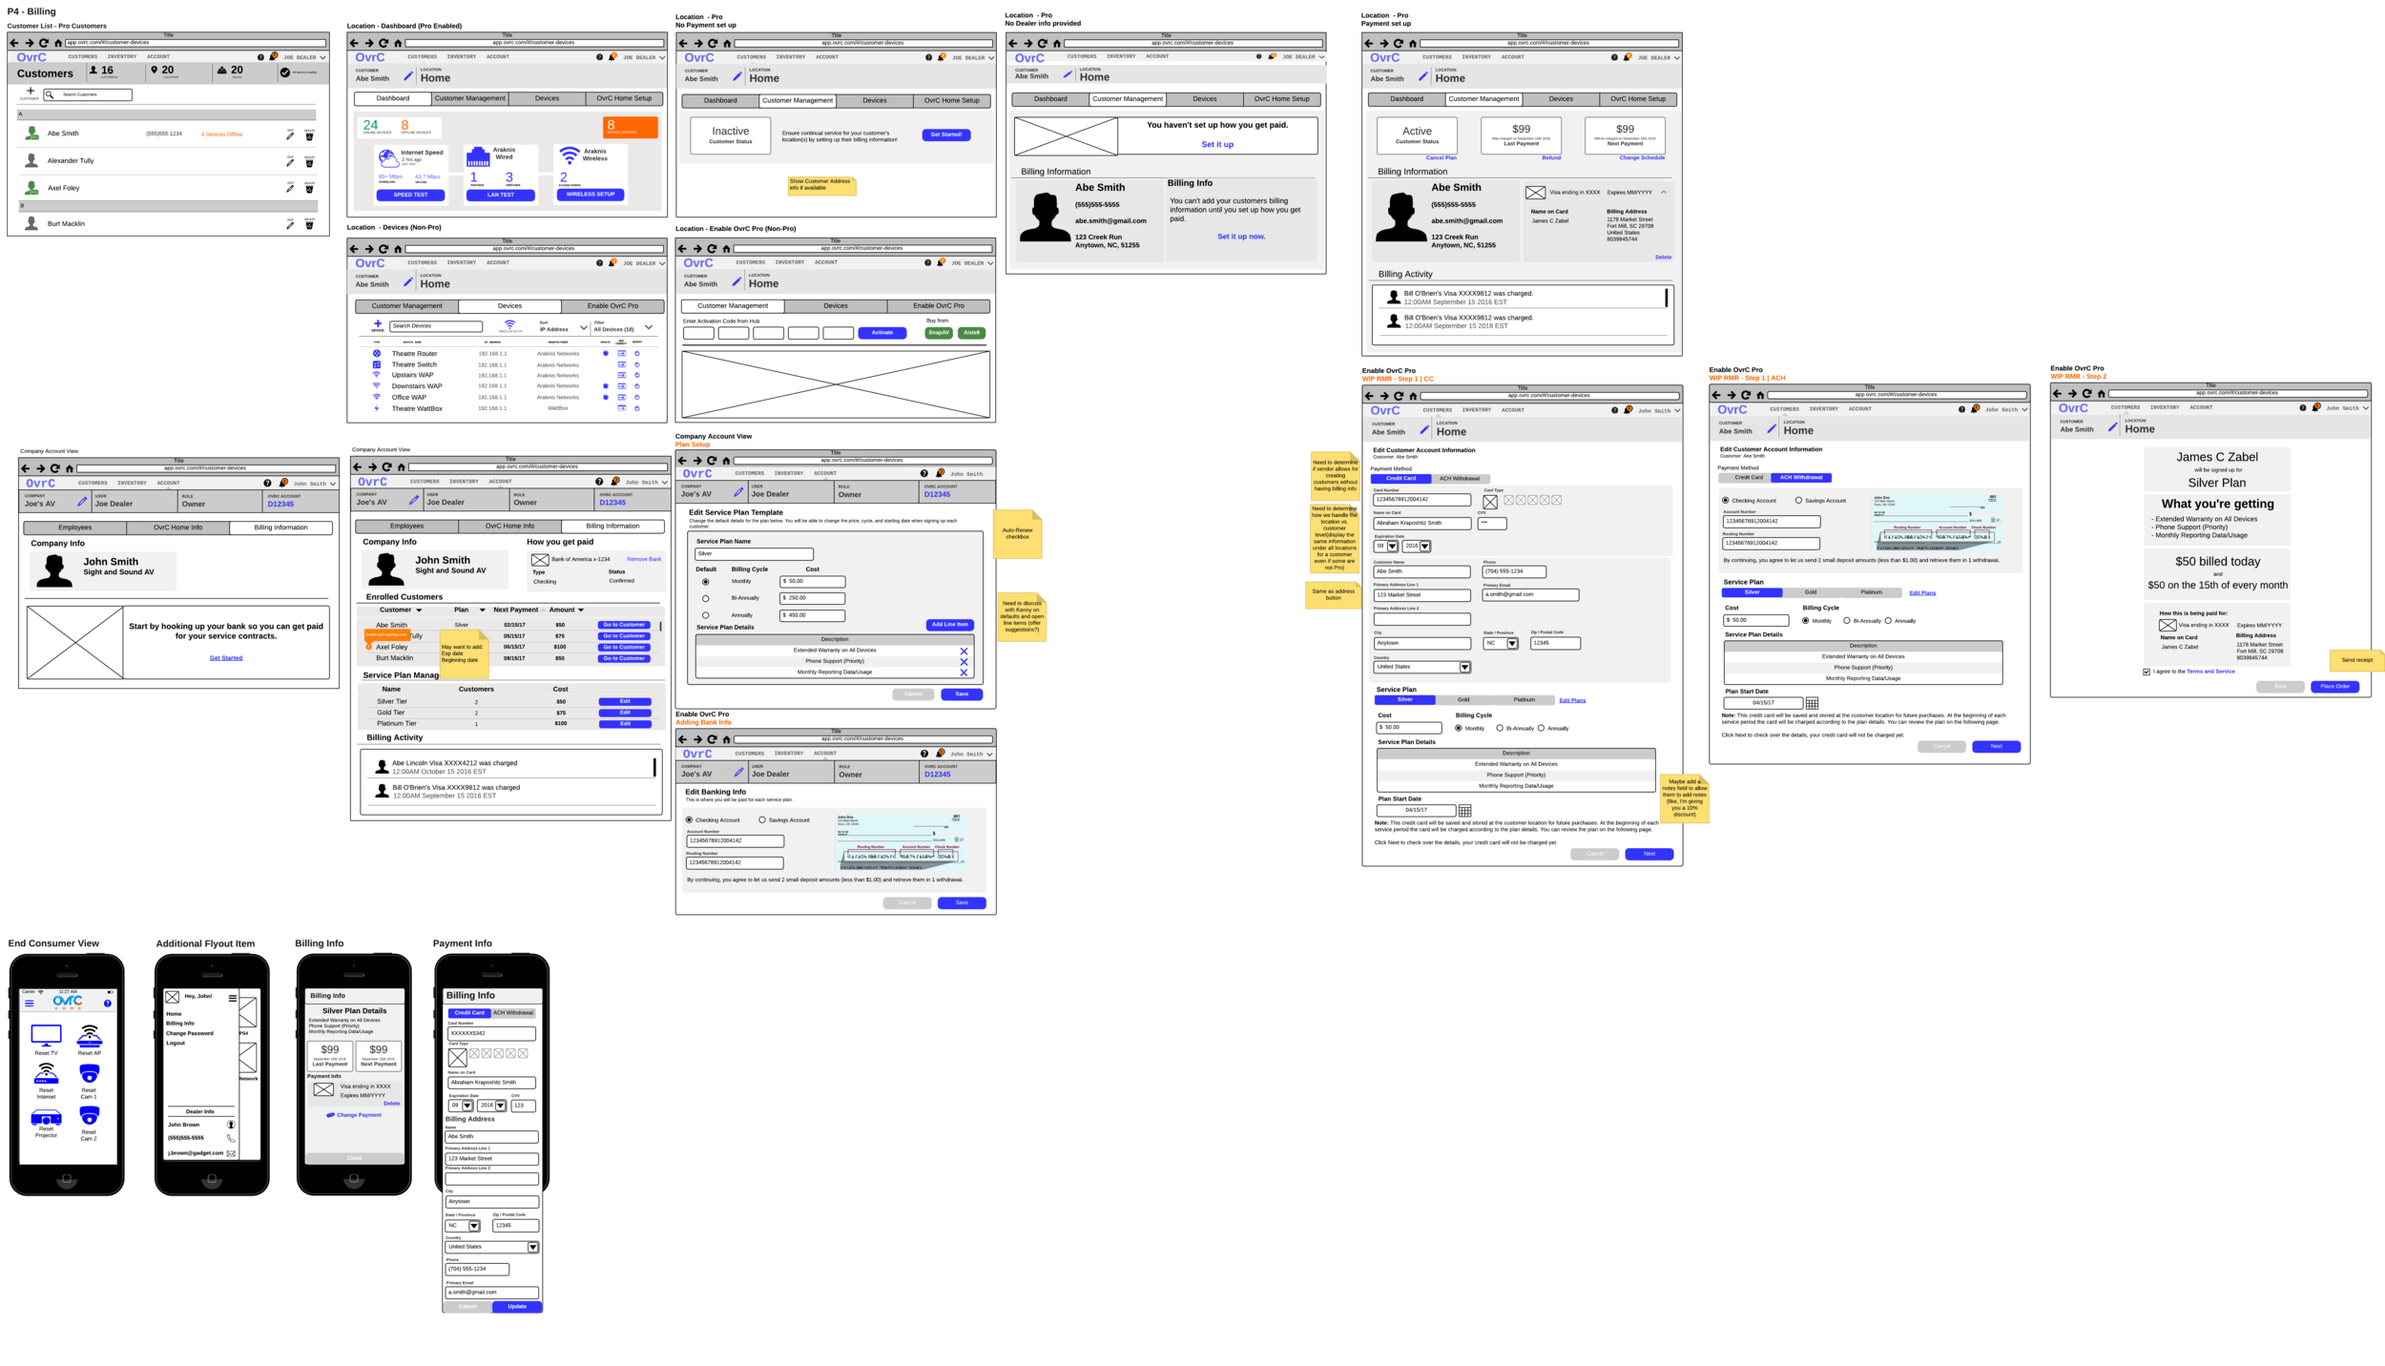
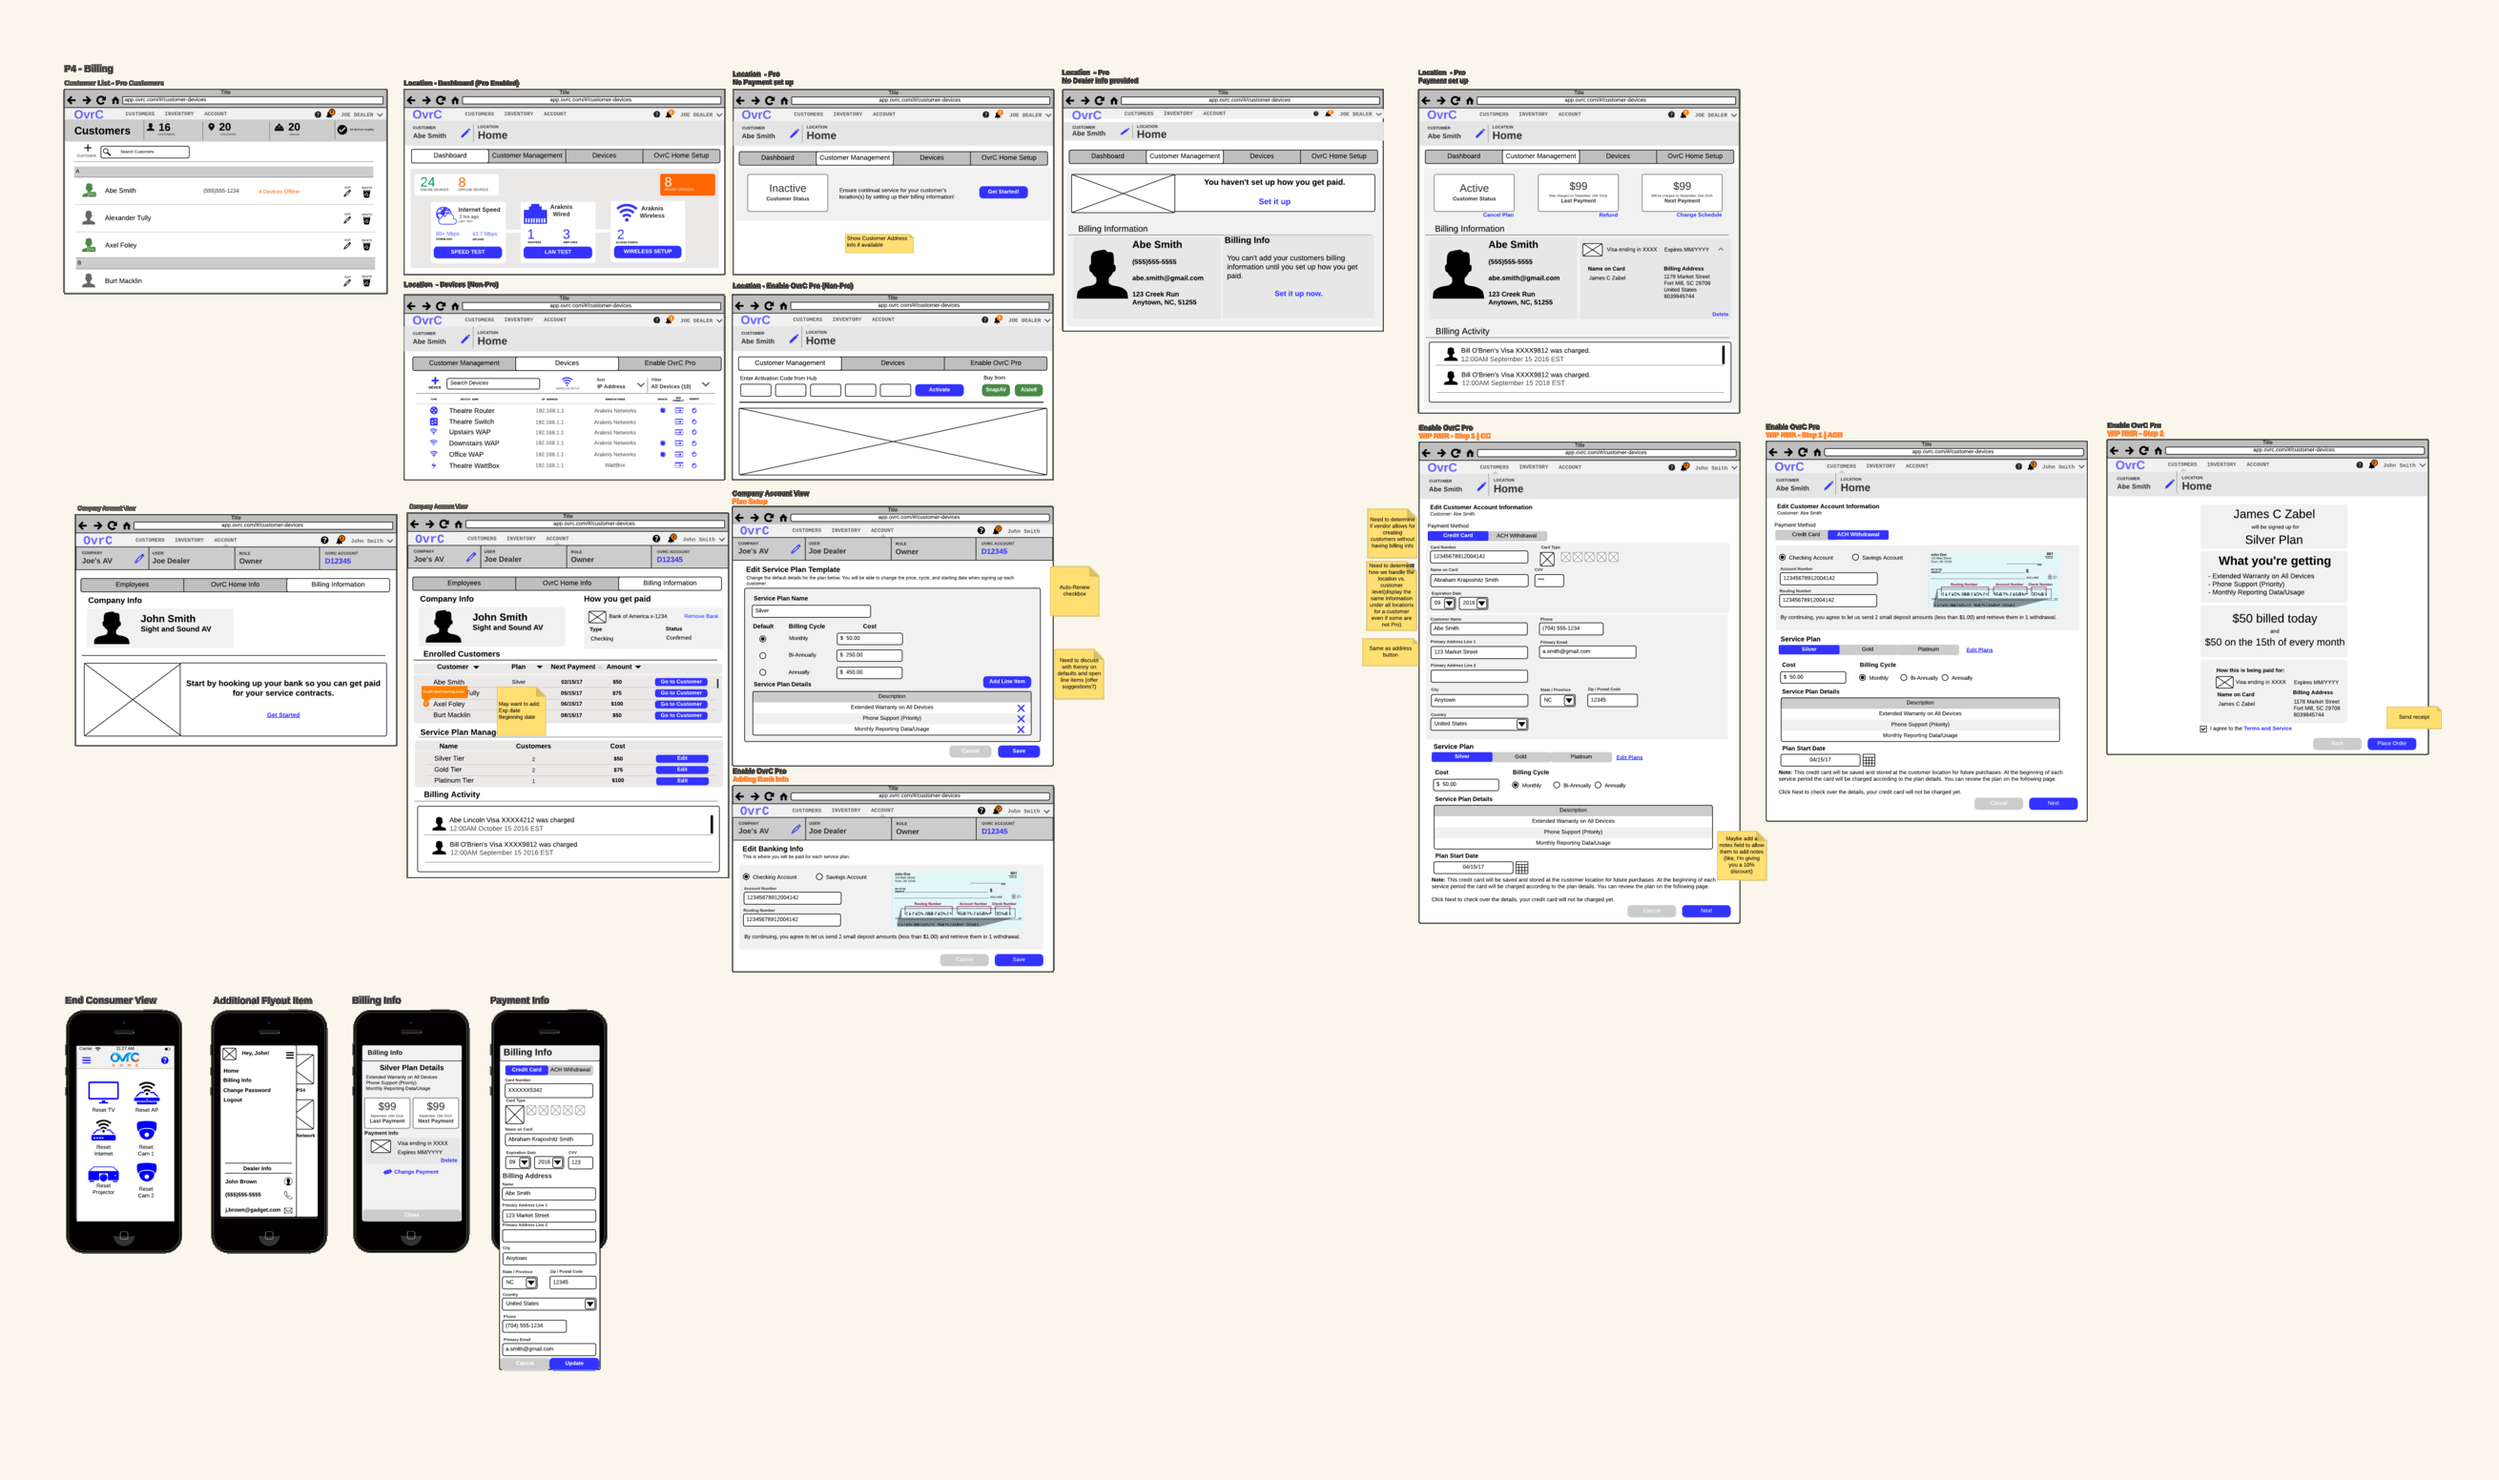
Move OvrC's phone screens into a side rail; flatten wireframes
Case studies can now mark screenshots with <RailShot> in MDX. On
desktop they collect into a sticky right column and swap at the spot
they used to sit inline; on phones they render inline as before.
OvrC's five portrait screens moved there, while the sitemap, map, and
wireframe boards stay inline at full width.

The sitemap and both wireframe boards were transparent PNGs with black
linework that vanished in dark mode. They're flattened onto the light
paper color with a margin, so they read as printed sheets in both
themes and in the lightbox.

Changed region(s): [[0.0, 0.0, 1.0, 0.676], [0.0, 0.676, 0.2496, 0.9832]]

diff --git a/app/work/[slug]/page.tsx b/app/work/[slug]/page.tsx
@@ -9,6 +9,8 @@ import Tag from "@/components/ui/Tag";
 import StripeImage from "@/components/ui/StripeImage";
 import { getCaseStudy, getCaseStudies, getCaseStudySlugs } from "@/lib/content";
 import { getImageDims, imageExists } from "@/lib/imageDims";
+import StickyRail from "@/components/ui/StickyRail";
+import { getRailShots } from "@/lib/railShots";
 import { mdxComponents } from "@/components/mdx/MdxComponents";
 import { heroComponents } from "@/components/heroes/registry";
 import type { Metadata } from "next";
@@ -178,12 +180,36 @@ export default async function CaseStudyPage({ params }: PageProps) {
         )}
       </div>
 
-      {/* MDX body — constrained measure */}
-      <article className="pb-16">
-        <div className="max-w-[680px] mx-auto md:mx-0">
-          <MDXRemote source={content} components={mdxComponents} />
-        </div>
-      </article>
+      {/* MDX body, constrained measure. When the case study marks screenshots
+          as <RailShot>, they move into a sticky column on the right on
+          desktop and swap as the reader reaches each one. */}
+      {(() => {
+        const shots = getRailShots(content);
+        const body = <MDXRemote source={content} components={mdxComponents} />;
+        if (shots.length === 0) {
+          return (
+            <article className="pb-16">
+              <div className="max-w-[680px] mx-auto md:mx-0">{body}</div>
+            </article>
+          );
+        }
+        // Frame fits the tallest shot; shorter ones letterbox inside it.
+        const ratio = Math.min(...shots.map((r) => r.width / r.height));
+        const frameStyle = {
+          aspectRatio: `${ratio}`,
+          maxWidth: `min(320px, calc((100vh - 10rem) * ${ratio.toFixed(3)}))`,
+        };
+        return (
+          <div className="pb-16 grid gap-12 md:grid-cols-[minmax(0,1fr)_240px] lg:grid-cols-[minmax(0,680px)_320px] lg:justify-between">
+            <article className="min-w-0">{body}</article>
+            <aside className="hidden md:block">
+              <div className="sticky top-24">
+                <StickyRail items={shots} frameStyle={frameStyle} />
+              </div>
+            </aside>
+          </div>
+        );
+      })()}
 
       {/* Next / Prev — inverted card */}
       {(nextStudy || prevStudy) ? (

diff --git a/components/ui/StickyRail.tsx b/components/ui/StickyRail.tsx
@@ -4,7 +4,8 @@ import Image from "next/image";
 import { useEffect, useState, type CSSProperties } from "react";
 
 export interface RailItem {
-  /** h2 text in the article that switches the rail to this screen. Omit for the opening shot. */
+  /** h2/h3 text in the article that switches the rail to this screen. Without
+   * it, the trigger is a <RailShot> marker for this src, if one exists. */
   section?: string;
   src: string;
   alt: string;
@@ -31,12 +32,15 @@ export default function StickyRail({ items, frameStyle }: StickyRailProps) {
 
   useEffect(() => {
     const headings = Array.from(
-      document.querySelectorAll<HTMLHeadingElement>("article h2"),
+      document.querySelectorAll<HTMLHeadingElement>("article h2, article h3"),
+    );
+    const markers = Array.from(
+      document.querySelectorAll<HTMLElement>("article [data-rail-src]"),
     );
     const targets = items.map((item) =>
       item.section
         ? headings.find((h) => h.textContent?.trim() === item.section) ?? null
-        : null,
+        : markers.find((m) => m.dataset.railSrc === item.src) ?? null,
     );
 
     // A handful of getBoundingClientRect reads per scroll event is cheap, so
@@ -82,7 +86,7 @@ export default function StickyRail({ items, frameStyle }: StickyRailProps) {
               height={item.height}
               priority={i === 0}
               sizes="(max-width: 768px) 100vw, 340px"
-              className={`rail-shot ${state} absolute inset-0 block w-full h-auto`}
+              className={`rail-shot ${state} absolute inset-0 block w-full h-full object-contain`}
             />
           );
         })}

diff --git a/components/mdx/MdxComponents.tsx b/components/mdx/MdxComponents.tsx
@@ -4,6 +4,7 @@ import MdxFigure from "./MdxFigure";
 import MdxImageRow from "./MdxImageRow";
 import MdxRow from "./MdxRow";
 import MdxThenNow from "./MdxThenNow";
+import MdxRailShot from "./MdxRailShot";
 import D20 from "./D20";
 import ContextGapDiagram from "./ContextGapDiagram";
 import TwoTrackDiagram from "./TwoTrackDiagram";
@@ -113,6 +114,8 @@ export const mdxComponents: MDXComponents = {
   Row: MdxRow as unknown as any,
   // eslint-disable-next-line @typescript-eslint/no-explicit-any
   ThenNow: MdxThenNow as unknown as any,
+  // eslint-disable-next-line @typescript-eslint/no-explicit-any
+  RailShot: MdxRailShot as unknown as any,
   // eslint-disable-next-line @typescript-eslint/no-explicit-any
   D20: D20 as unknown as any,
   // eslint-disable-next-line @typescript-eslint/no-explicit-any

diff --git a/components/mdx/MdxRailShot.tsx b/components/mdx/MdxRailShot.tsx
@@ -1,0 +1,23 @@
+import MdxFigure from "./MdxFigure";
+
+interface MdxRailShotProps {
+  src: string;
+  alt: string;
+}
+
+/**
+ * A screenshot that lives in the page's side rail on desktop. Where it sits in
+ * the MDX is where the rail swaps to it (via the data-rail-src marker), and the
+ * page collects every RailShot into the rail in document order. Below md there
+ * is no rail, so it renders inline like any other figure.
+ */
+export default function MdxRailShot({ src, alt }: MdxRailShotProps) {
+  return (
+    <>
+      <span data-rail-src={src} aria-hidden="true" className="block h-0" />
+      <div className="md:hidden">
+        <MdxFigure src={src} alt={alt} portraitMax={260} />
+      </div>
+    </>
+  );
+}

diff --git a/lib/railShots.ts b/lib/railShots.ts
@@ -1,0 +1,20 @@
+import { getImageDims } from "./imageDims";
+
+export interface RailShot {
+  src: string;
+  alt: string;
+  width: number;
+  height: number;
+}
+
+/** Collect <RailShot src="…" alt="…" /> tags from MDX source, in order, with
+ * image dimensions, so the page can build its side rail server-side. */
+export function getRailShots(mdx: string): RailShot[] {
+  const tags = mdx.match(/<RailShot\b[^>]*\/>/g) ?? [];
+  return tags.flatMap((tag) => {
+    const src = tag.match(/\bsrc="([^"]+)"/)?.[1];
+    const alt = tag.match(/\balt="([^"]*)"/)?.[1] ?? "";
+    const dims = src ? getImageDims(src) : null;
+    return src && dims ? [{ src, alt, ...dims }] : [];
+  });
+}

diff --git a/DESIGN.md b/DESIGN.md
@@ -91,7 +91,7 @@ Never italic for full sentences of body copy.
 
 - The H1 underscore cursor blink (`.cursor-blink`, 1.1s steps(2)) is the only looping system animation.
 - Explanatory diagrams may play a one-shot build when scrolled into view (the Azure Advisor poster, `.ap-*` in `globals.css`): about 2s, never loops, ends on the static diagram, and does not run under `prefers-reduced-motion`. Motion has to explain the idea, not decorate it.
-- The project side rail (`StickyRail`, `.rail-*`) swaps to each section's screen with a short lift-and-rise as its heading scrolls past. It follows reading position and never drives or hijacks the scroll; reduced motion swaps instantly.
+- The side rail (`StickyRail`, `.rail-*`; `rail:` frontmatter on projects, `<RailShot>` in case-study MDX) swaps to each section's screen with a short lift-and-rise as its heading scrolls past. It follows reading position and never drives or hijacks the scroll; reduced motion swaps instantly.
 - Hover: a 1–2px translate or hairline shadow shift. Never a glow.
 - Theme toggle: instant, no transition.
 - All motion respects `prefers-reduced-motion`.

diff --git a/CLAUDE.md b/CLAUDE.md
@@ -29,7 +29,7 @@
 ## Motion
 - The H1 underscore cursor blink (`.cursor-blink`) is the only looping system animation.
 - Explanatory diagrams may play a one-shot build on scroll-in (e.g. the Azure Advisor poster). It must explain the idea, end on the static diagram, and be skipped under reduced motion.
-- The project side rail may swap screenshots with a short lift-and-rise as sections scroll past. It follows the reader, never drives the scroll.
+- The side rail (projects via `rail:` frontmatter, case studies via `<RailShot>` in MDX) may swap screenshots with a short lift-and-rise as the reader reaches them. It follows the reader, never drives the scroll. Phone and portrait screens go in the rail; wide artifacts (sitemaps, wireframe boards, maps) stay inline where they are readable.
 - Subtle fade-ins on scroll at most. No parallax, scroll-jacking, custom cursors, carousels, or heavy load animations.
 - Hover states stay subtle: a hairline shift, never a glow.
 - Respect `prefers-reduced-motion` everywhere.
